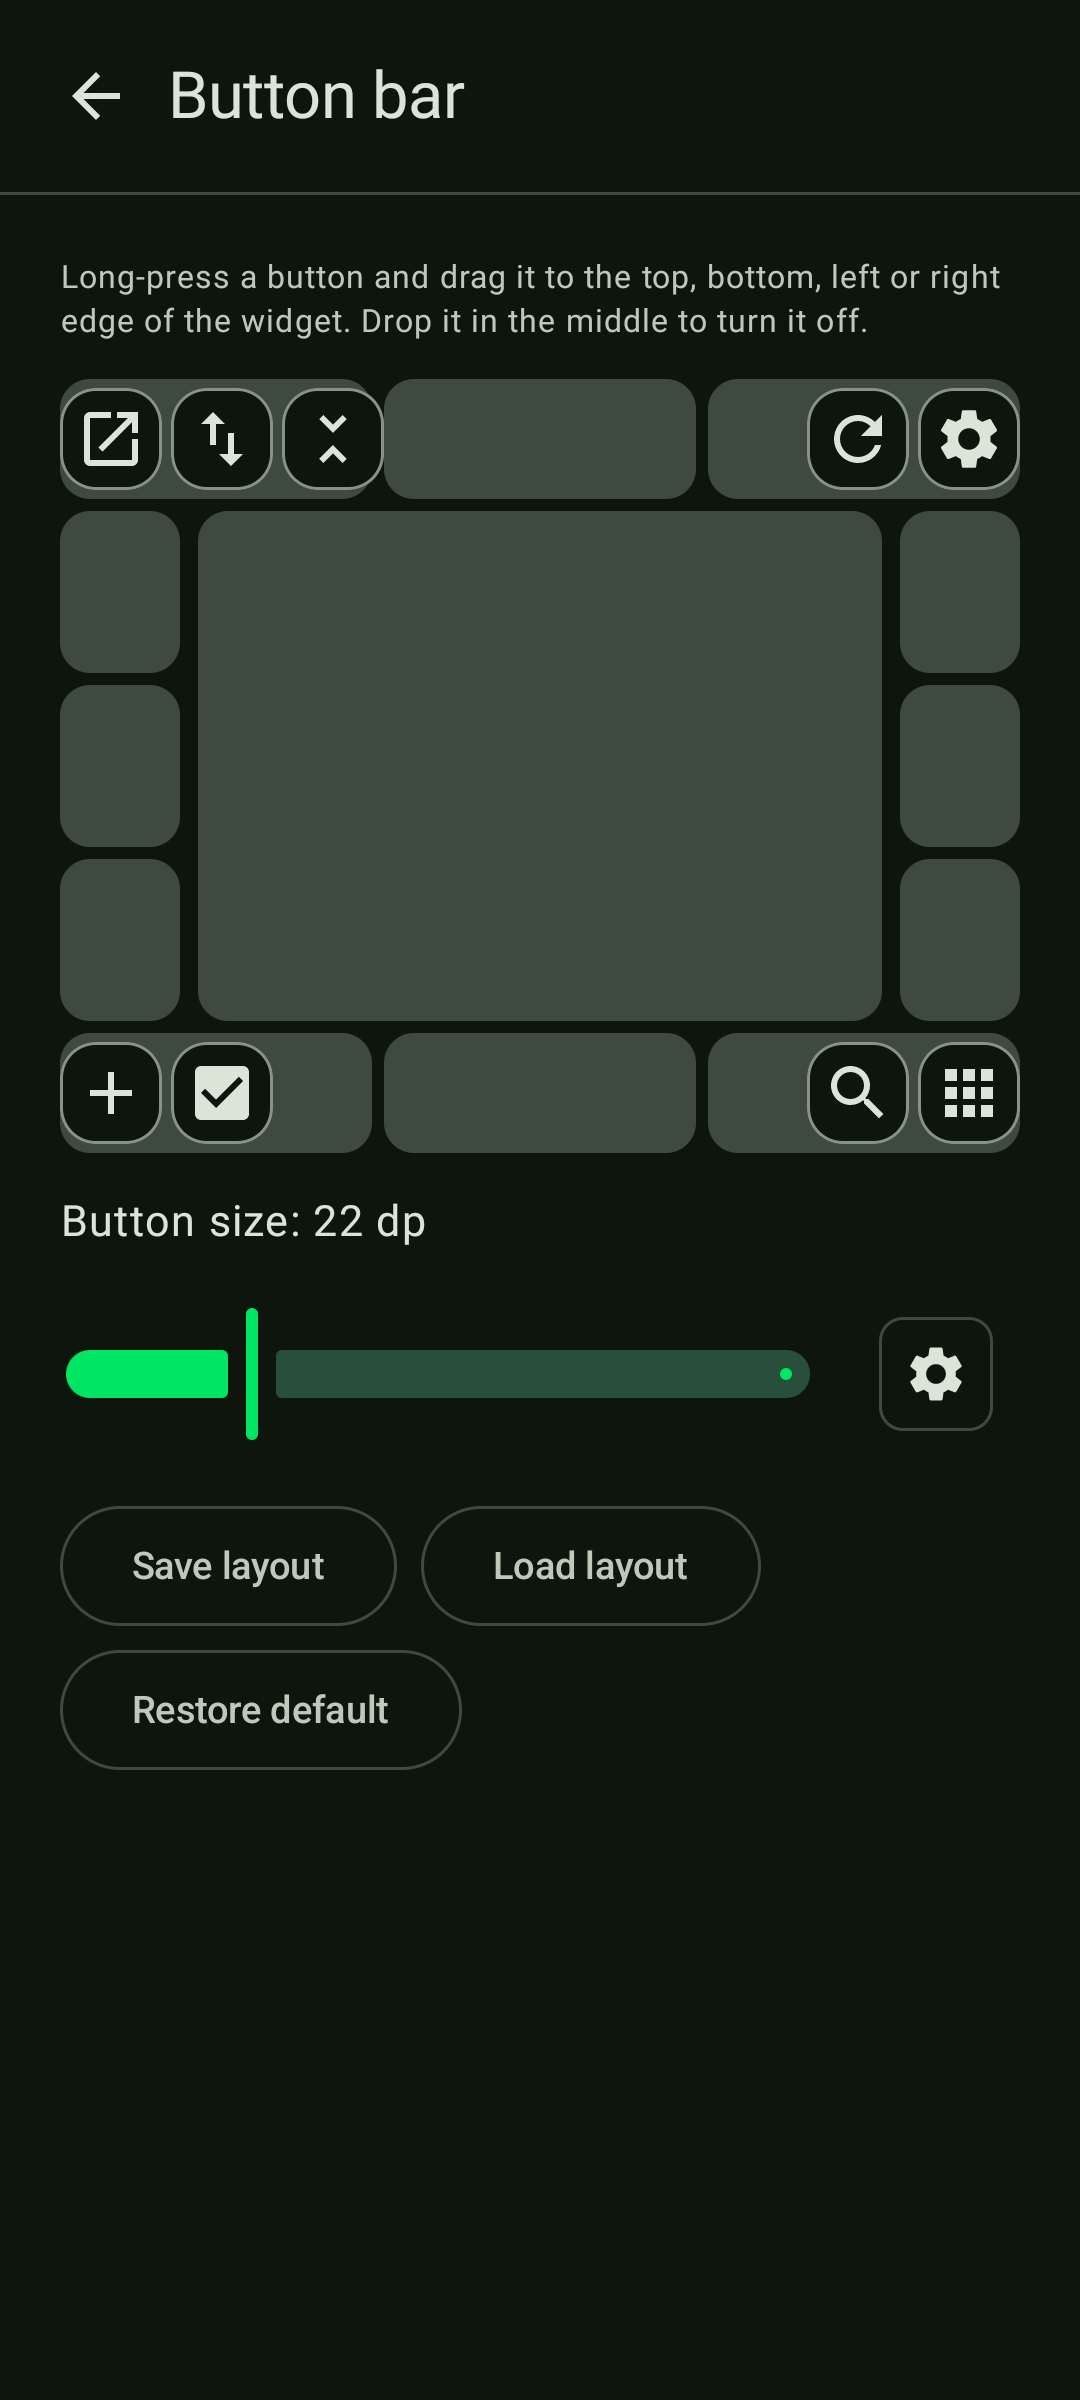
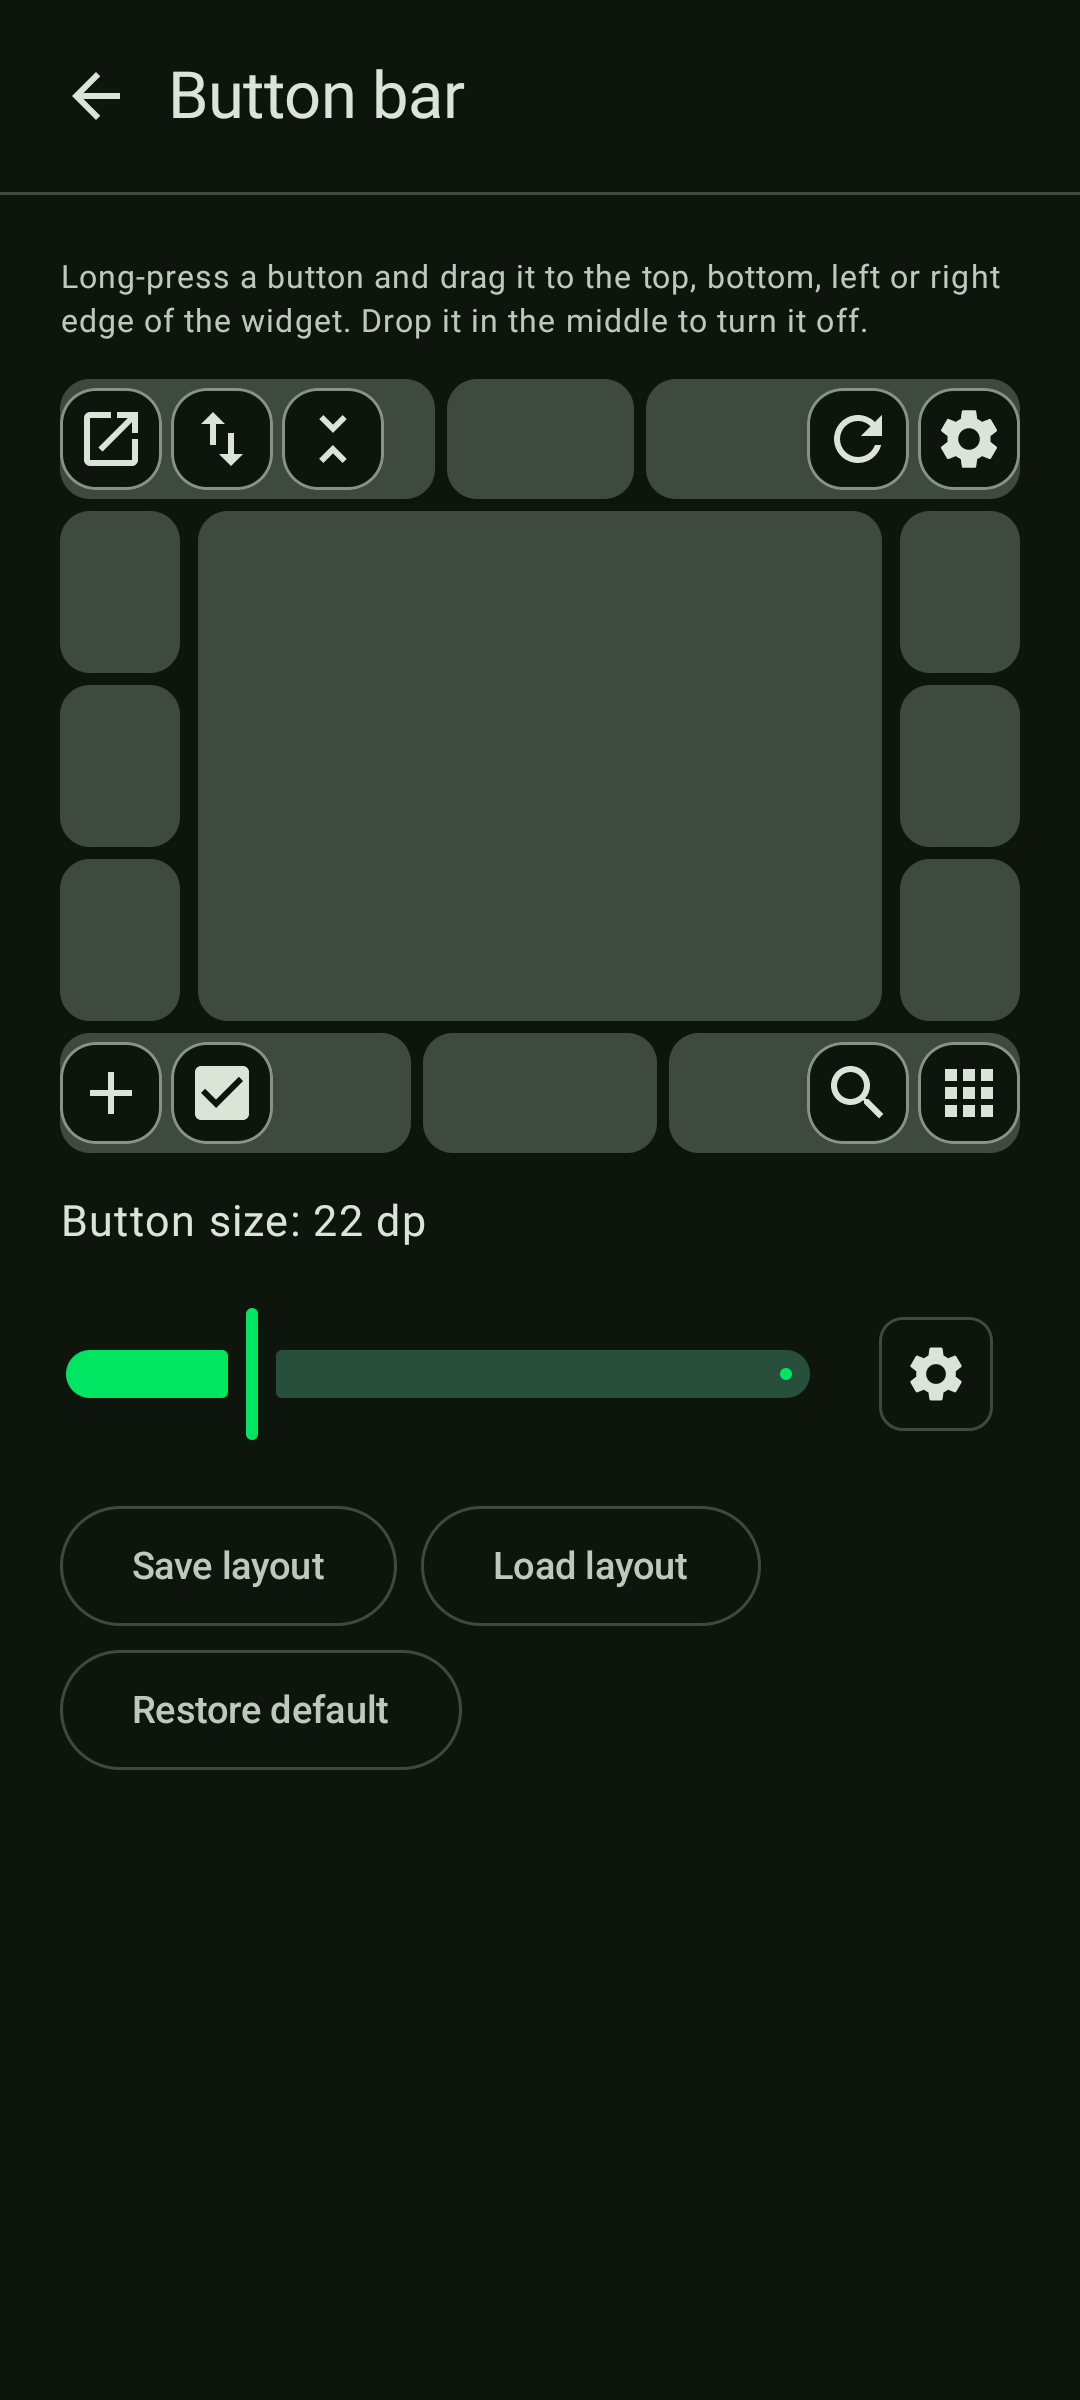
Button bar editor: regions grow with their buttons, new screenshot

diff --git a/app/src/main/java/com/gkeepdroid/ButtonLayoutEditor.kt b/app/src/main/java/com/gkeepdroid/ButtonLayoutEditor.kt
@@ -166,6 +166,11 @@ fun ButtonLayoutEditor(
         val vertical = side == POS_LEFT || side == POS_RIGHT
         val places = listOf(ALIGN_START, ALIGN_CENTER, ALIGN_END)
         val dragged = buttons.firstOrNull { it.id == dragId }
+        // A region grows with the buttons in it, so a third button does not hang out of its region.
+        fun regionWeight(slot: Int) = maxOf(1f, 0.5f * buttons.count { it.side == side && it.slot == slot } + 0.5f)
+        val outerWeight = maxOf(regionWeight(ALIGN_START), regionWeight(ALIGN_END))
+        val centerWeight = regionWeight(ALIGN_CENTER)
+        fun weightOf(slot: Int) = if (slot == ALIGN_CENTER) centerWeight else outerWeight
 
         @Composable
         fun Group(slot: Int) {
@@ -208,25 +213,25 @@ fun ButtonLayoutEditor(
             // The drop regions, drawn behind the buttons.
             if (vertical) {
                 Column(Modifier.matchParentSize(), verticalArrangement = Arrangement.spacedBy(4.dp)) {
-                    places.forEach { Zone(side * 10 + it, Modifier.weight(1f).fillMaxWidth()) {} }
+                    places.forEach { Zone(side * 10 + it, Modifier.weight(weightOf(it)).fillMaxWidth()) {} }
                 }
             } else {
                 Row(Modifier.matchParentSize(), horizontalArrangement = Arrangement.spacedBy(4.dp)) {
-                    places.forEach { Zone(side * 10 + it, Modifier.weight(1f).fillMaxHeight()) {} }
+                    places.forEach { Zone(side * 10 + it, Modifier.weight(weightOf(it)).fillMaxHeight()) {} }
                 }
             }
             // The buttons: equal outer groups keep the middle one centered, as in the widget.
             if (vertical) {
                 Column(Modifier.matchParentSize(), horizontalAlignment = Alignment.CenterHorizontally) {
-                    Box(Modifier.weight(1f).fillMaxWidth(), contentAlignment = Alignment.TopCenter) { Group(ALIGN_START) }
+                    Box(Modifier.weight(outerWeight).fillMaxWidth(), contentAlignment = Alignment.TopCenter) { Group(ALIGN_START) }
                     Group(ALIGN_CENTER)
-                    Box(Modifier.weight(1f).fillMaxWidth(), contentAlignment = Alignment.BottomCenter) { Group(ALIGN_END) }
+                    Box(Modifier.weight(outerWeight).fillMaxWidth(), contentAlignment = Alignment.BottomCenter) { Group(ALIGN_END) }
                 }
             } else {
                 Row(Modifier.matchParentSize(), verticalAlignment = Alignment.CenterVertically) {
-                    Box(Modifier.weight(1f).fillMaxHeight(), contentAlignment = Alignment.CenterStart) { Group(ALIGN_START) }
+                    Box(Modifier.weight(outerWeight).fillMaxHeight(), contentAlignment = Alignment.CenterStart) { Group(ALIGN_START) }
                     Group(ALIGN_CENTER)
-                    Box(Modifier.weight(1f).fillMaxHeight(), contentAlignment = Alignment.CenterEnd) { Group(ALIGN_END) }
+                    Box(Modifier.weight(outerWeight).fillMaxHeight(), contentAlignment = Alignment.CenterEnd) { Group(ALIGN_END) }
                 }
             }
         }
